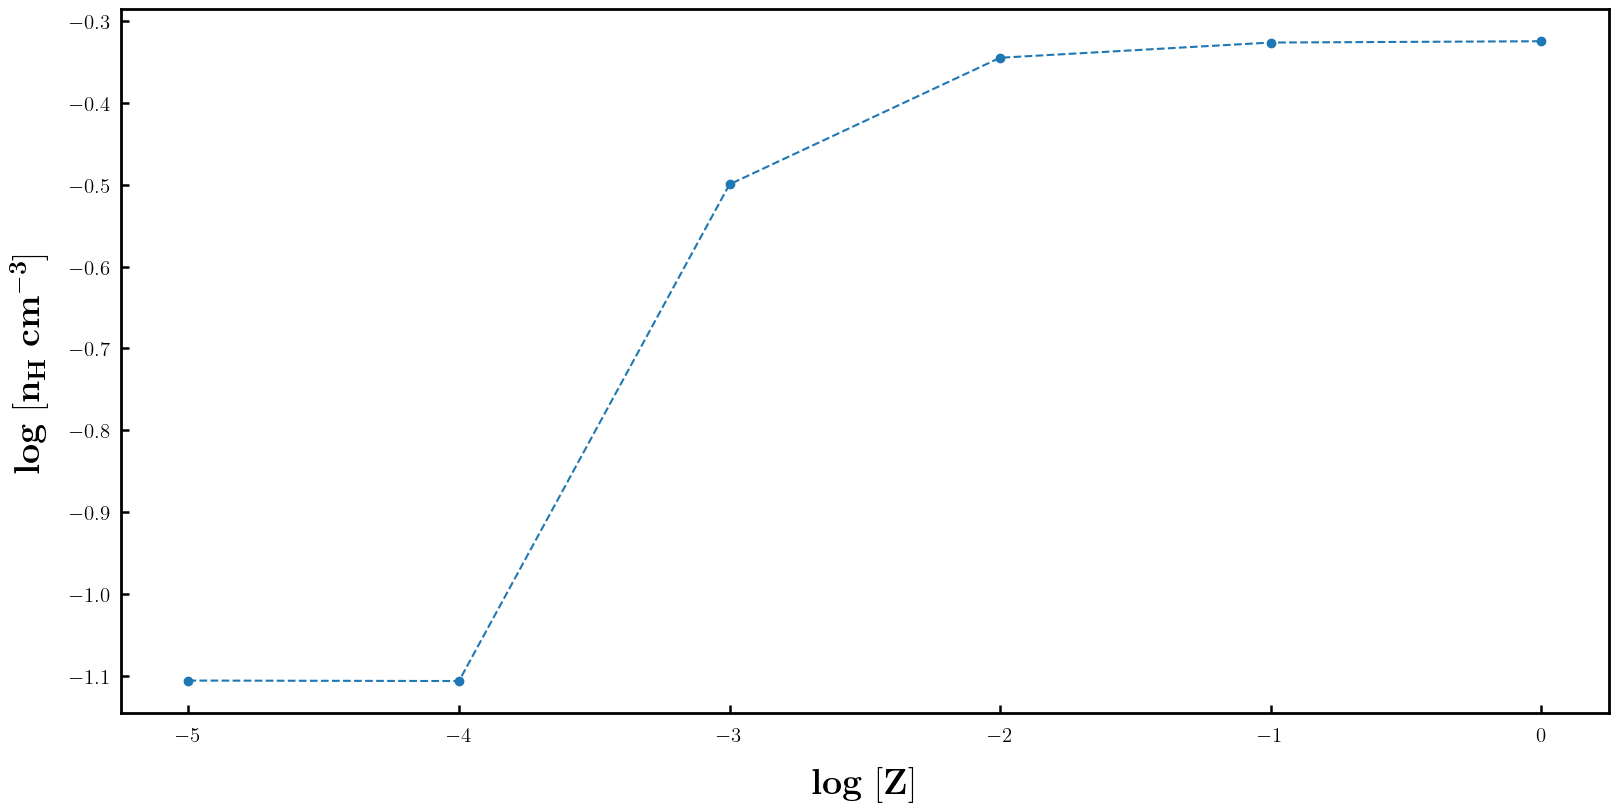
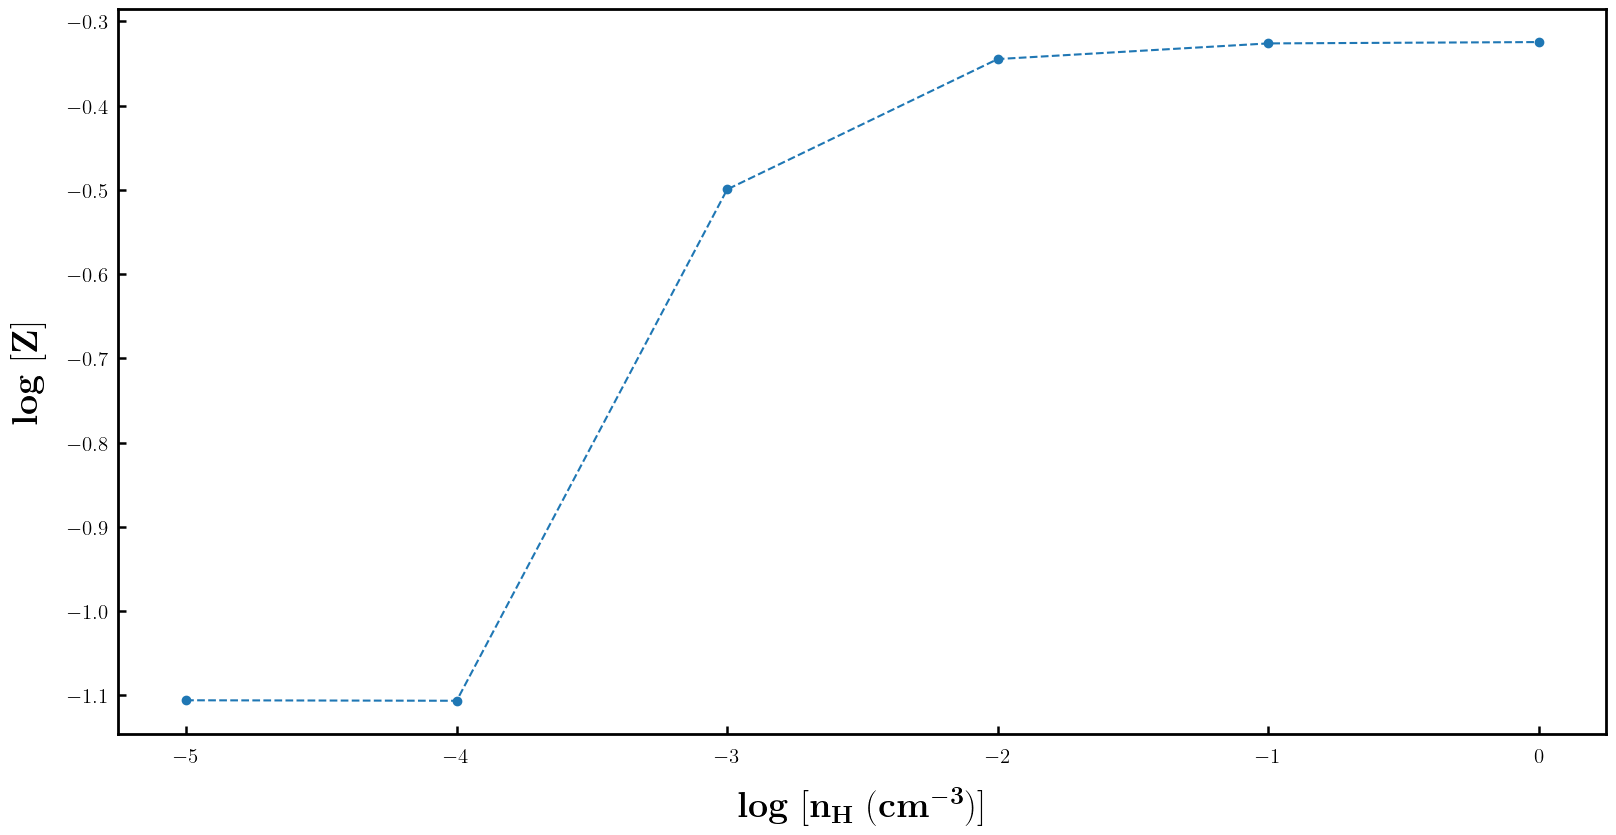
Auto

diff --git a/Cloudy_runs/component_II_modelling.py b/Cloudy_runs/component_II_modelling.py
@@ -70,8 +70,8 @@ for n in range(-5,1):
 
 plt.scatter(nH_plot,Z)
 plt.plot(nH_plot,Z,ls='--')
-plt.xlabel(r'$\mathbf{log \ [Z]}$',labelpad=15)
-plt.ylabel(r'$\mathbf{log \ [n_H \ {cm}^{-3}]}$',labelpad=15)
+plt.ylabel(r'$\mathbf{log \ [Z]}$',labelpad=15)
+plt.xlabel(r'$\mathbf{log \ [n_H \ ({cm}^{-3})]}$',labelpad=15)
 plt.show()
 
 
